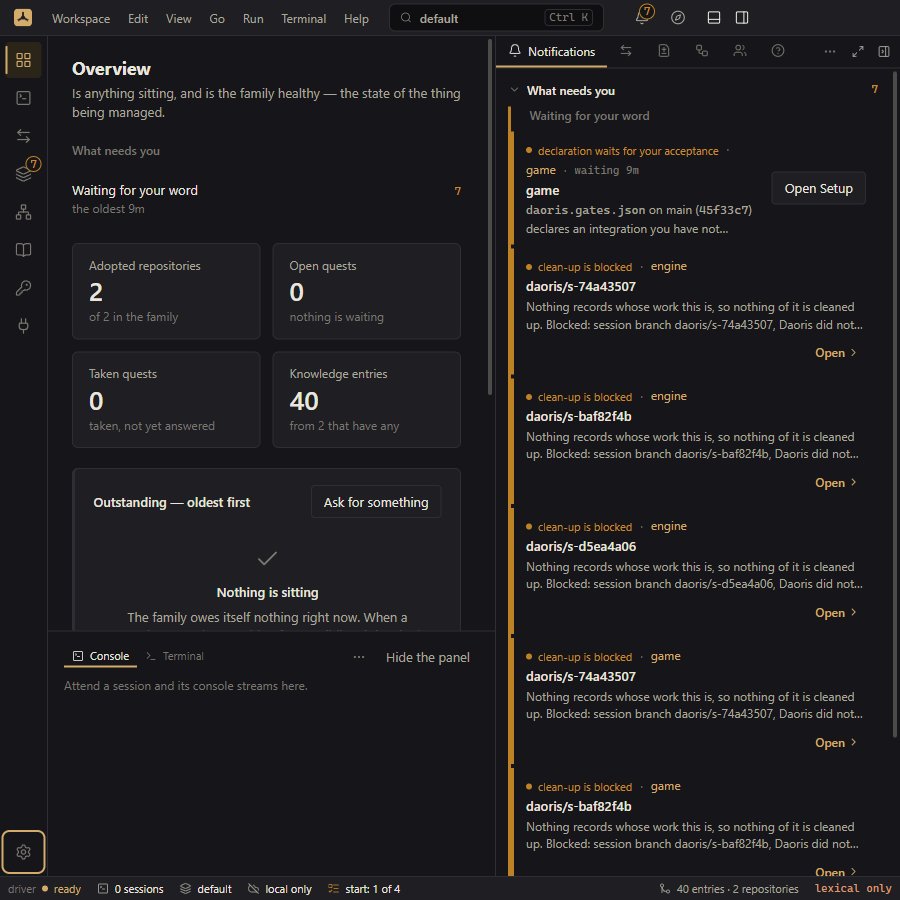
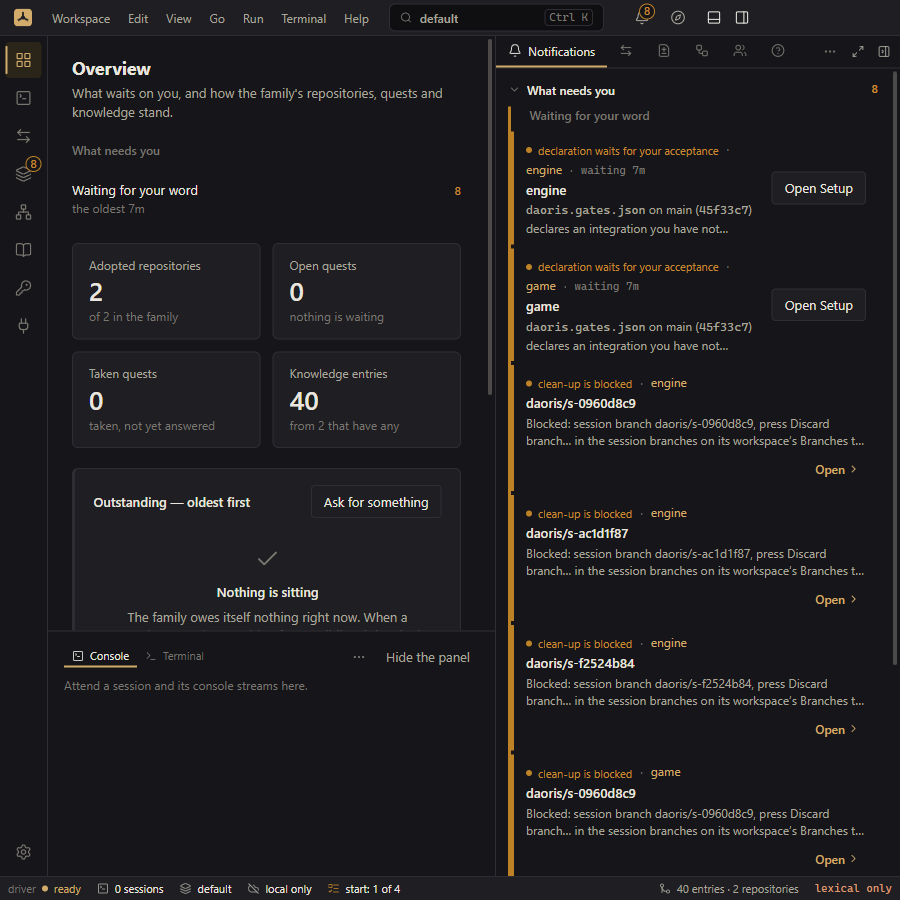
feat(web,docs): UIREVIEW1's second pass: the after shots, the places left, and UIFIND6 to UIFIND14
The Files tab and the blocked clean-up rows held in the window (their
shots are written over the before shots); the Map's two repositories now
stand in one view above the panel at 1600 x 1000, its ring leaving room
for the canvas's own reserve, toolbar and padding. The places left by the
first pass are shot in English light and dark, Knowledge and Settings in
Chinese, each finding a row. A quest's page and the secondary windows
stay open: the devtools cannot type and cannot open a menu. The backlog
runs 47 words over its advisory budget for the nine finding rows.

diff --git a/src/Daoris.Web/src/map/MapWorld.tsx b/src/Daoris.Web/src/map/MapWorld.tsx
@@ -15,8 +15,8 @@ import { ASKS, type Topology } from './topology';
 
 /** Where nothing measures the region (a unit test): the width the layers were always laid out for. */
 const FALLBACK_WIDTH = 900;
-/** What follows the drawing down to the window's foot: the legend's two lines and the off-map count, the card's padding, the status bar. */
-const BELOW = 140;
+/** What the ring leaves below the holder's top: the canvas's reserve under its viewport, its toolbar row and its padding. */
+const BELOW = 230;
 /** Zoom 25–250%: Ctrl+wheel and a pinch are continuous, and a name is the type scale's at 100%. */
 const ZOOM = { min: 0.25, max: 2.5 } as const;
 

diff --git a/TASKS.md b/TASKS.md
@@ -116,8 +116,17 @@ area document under `docs/areas/`. Each row's earlier full text is in git at `9f
 
 ## The desktop app
 
-- [ ] **UIREVIEW1 — every screen reviewed for its UI and UX, by the devtools** (web, app): first pass done on a scratch machine (two example repositories, no quests, no accounts): Overview, Sessions' start page, Quests' empty state, Repositories and its Details, Branches, Integration and Files tabs, Map, Knowledge, Agents and an agent's page with its API-key form, Notifications, and every Settings section, in English with light and dark, and Chinese for Overview, Agents, Repositories, Map. Left: a session's own page, a quest's page and the Ask dialog, an agent's page with a signed-in account (none seeded), Plugins, the Fabric, secondary windows (monitor, session, browser), and Chinese for Knowledge and Settings; they need a seeded quest, a session and an account. The rows below are the findings, one each.
+- [ ] **UIREVIEW1 — every screen reviewed for its UI and UX, by the devtools** (web, app): every place is reviewed but a quest's page (the Ask drawer needs typing; a terminal's `daoris ask` is refused without the person's key) and the secondary windows (menu doors, which `click` does not open): a typing step in `tools/desktop.mjs` reaches both. Its findings are the rows below.
 - [ ] **UIFIND4 — an agent's page: the API-key form sits under *Your own sign-in*** (web, agents): *Add an API key* opens its form beneath the *Your own sign-in* heading, which is the person's terminal sign-in, not a Daoris account; the empty accounts table shows column heads over no rows; *Ways in* reads "protocol not installed" (the implementation, not what a person can do). Shot `docs/assets/uireview/agent-api-key-form.png`.
+- [ ] **UIFIND6 — an agent's sign-in says itself three times** (web, agents): the card says it twice and a toast again; *Done* on the unchanged name toasts a rename by the account's id. Shot `docs/assets/uireview/agent-signed-in.png`.
+- [ ] **UIFIND7 — an ended conversation's page and its console point at each other** (web, work): a protocol conversation with no turn gives two reasons none is kept, neither true, and sends the person to the console, which sends them back; it still offers *Ask another agent…*, and each is named only *Chat*. Shot `docs/assets/uireview/session-page.png`.
+- [ ] **UIFIND8 — *At work* offers the channel to an ended session** (web, work): a completed conversation's *At work* offers *Write to the channel* and *Send* with nobody left to read. Shot `docs/assets/uireview/session-at-work.png`.
+- [ ] **UIFIND9 — a terminal's start card says "with your words:" over no words** (web, person): `daoris chat` with no words is carded so, above only its repository and agent. Shot `docs/assets/uireview/terminal-confirmation.png`.
+- [ ] **UIFIND10 — the Ask drawer's subtitle and twin** (web, asks): the subtitle is set in an id's monospace, and the terminal twin stands mid-form, not at the foot. Shot `docs/assets/uireview/ask-dialog.png`.
+- [ ] **UIFIND11 — Plugins offers Ask Daoris with no agent, and cuts each name** (web, plugins): *Ask Daoris for a plugin* stands while Ask Daoris runs no agent; the list cuts "Azure DevOps pul…". Shot `docs/assets/uireview/plugins.png`.
+- [ ] **UIFIND12 — the session's states chart runs off the side bar** (web, work): *Timeline*'s edges to *ended* run past the side bar's right edge. Shot `docs/assets/uireview/session-timeline.png`.
+- [ ] **UIFIND13 — Knowledge's list is empty until a search** (web, knowledge): with 40 entries the list is empty while the main asks for a result. Shot `docs/assets/uireview/knowledge-zh.png`.
+- [ ] **UIFIND14 — Settings says an absent folder twice and draws doors three ways** (web, settings): *Disk space*'s *Program* and *Update* say "A development run has none" and "Not there yet" (shot not kept: machine paths); *Get started*'s doors are a link, a button and ghosts. Shot `docs/assets/uireview/settings-updates.png`.
 - [ ] **SETTINGSUX1 — the Settings page made orderly** (driver, web): the grouping is built (archived). Left: the help room's door rows still say *Settings → This Daoris → Disk space → Change…* and *Settings → Driver → Update* (`HelpDoorRowsMachine.cs`, `HelpDoorRowsActs.cs` and the help room's goldens), now *Settings → Disk space → Change…* and *Settings → Updates*; the after shots and the installed window. → `docs/areas/desktop-app.md` rule 57
 - [ ] **CANVAS1 — one proper canvas for every graph Daoris draws** (web; D224): a to f are built with their remainders (a Fold on every open folder, routing by a work budget, cards' set size and position). Left: **g** the installed window (with FLOWCHART2h). → `docs/2026-11-02-canvas-design.md` §9; `docs/areas/desktop-app.md`, Open
 - [ ] **MAPUX1 — the Map's UI and UX** (web; D239): a to f are built and the Tab order is measured on both levels. Left: **g** seen on the install with CANVAS1g. → `docs/2026-11-06-map-ux-design.md` §12
